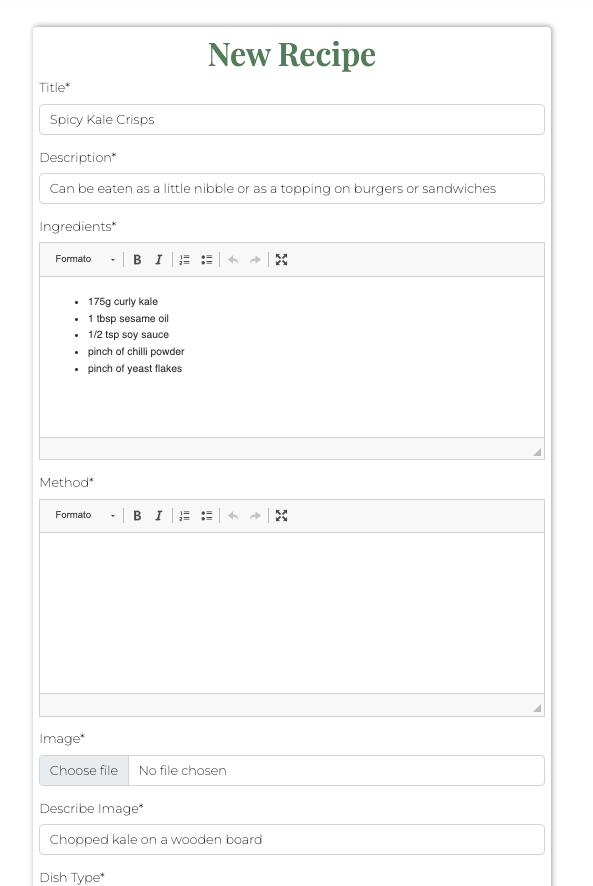
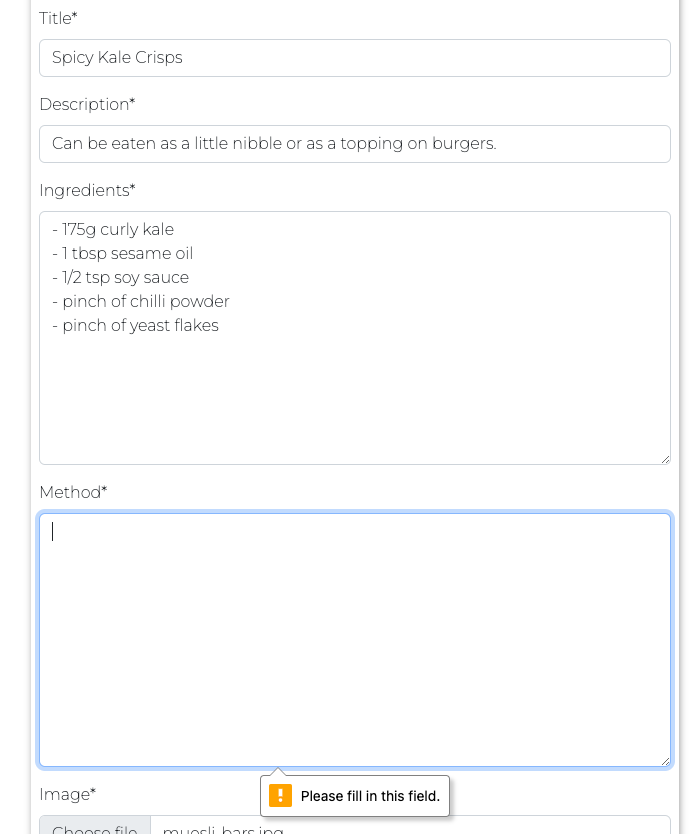
Replace outdated screenshots in README file

diff --git a/README.md b/README.md
@@ -650,8 +650,7 @@ The Recipes page displays the same navbar and footer that are found on the homep
 ### New
 
 <details><summary>Add Recipe page opens with a form to let the user create a new recipe. The form has eight fields which all need to be filled for the recipe to be successfully created. The Dish Type and Prep Time fields are prepopulated.</summary>
-<img src="static/readme-images/readme-new-loggedin.png" >
-<img src="static/readme-images/readme-new2-loggedin.png" >
+<img src="static/readme-images/readme-new-recipe.png" >
 </details>
 
 <details><summary>The Title field is not filled: an alert message prompts the user to fill it in.</summary>
@@ -662,11 +661,11 @@ The Recipes page displays the same navbar and footer that are found on the homep
 <img src="static/readme-images/readme-new-recipe-no-description.png" >
 </details>
 
-<details><summary>The Ingredients field is not filled: the recipe is not created and the page reloads waiting for the user to complete the missing section.</summary>
+<details><summary>The Ingredients field is not filled: an alert message prompts the user to fill it in.</summary>
 <img src="static/readme-images/readme-new-recipe-no-ingredients.png" >
 </details>
 
-<details><summary>The Method field is not filled: the recipe is not created and the page reloads waiting for the user to complete the missing section.</summary>
+<details><summary>The Method field is not filled: an alert message prompts the user to fill it in.</summary>
 <img src="static/readme-images/readme-new-recipe-no-method.png" >
 </details>
 
@@ -818,7 +817,7 @@ As a site admin I can remove users so that they will no longer be able to post u
 
 #### HTML files
 
-The HTML files pass through the [W3C validator](https://validator.w3.org/) with no HTML issues found. Errors listed only reference {%%} & {{}} tags.
+The HTML files pass through the [W3C validator](https://validator.w3.org/) with no HTML issues found. Warning listed only reference {%%} & {{}} tags.
 
 <details><summary>Home page</summary>
 <img src="static/readme-images/readme-W3C-homepage.png">
@@ -826,10 +825,7 @@ The HTML files pass through the [W3C validator](https://validator.w3.org/) with 
 
 <details><summary>Recipes</summary>
 <img src="static/readme-images/readme-W3C-recipes.png">
-<img src="static/readme-images/readme-W3C-recipes-code.png" >
 </details>
-
-The validator fails to recognize the content of the paragraph tags.
 
 <details><summary>Sign Up</summary>
 <img src="static/readme-images/readme-W3C-signup.png">
